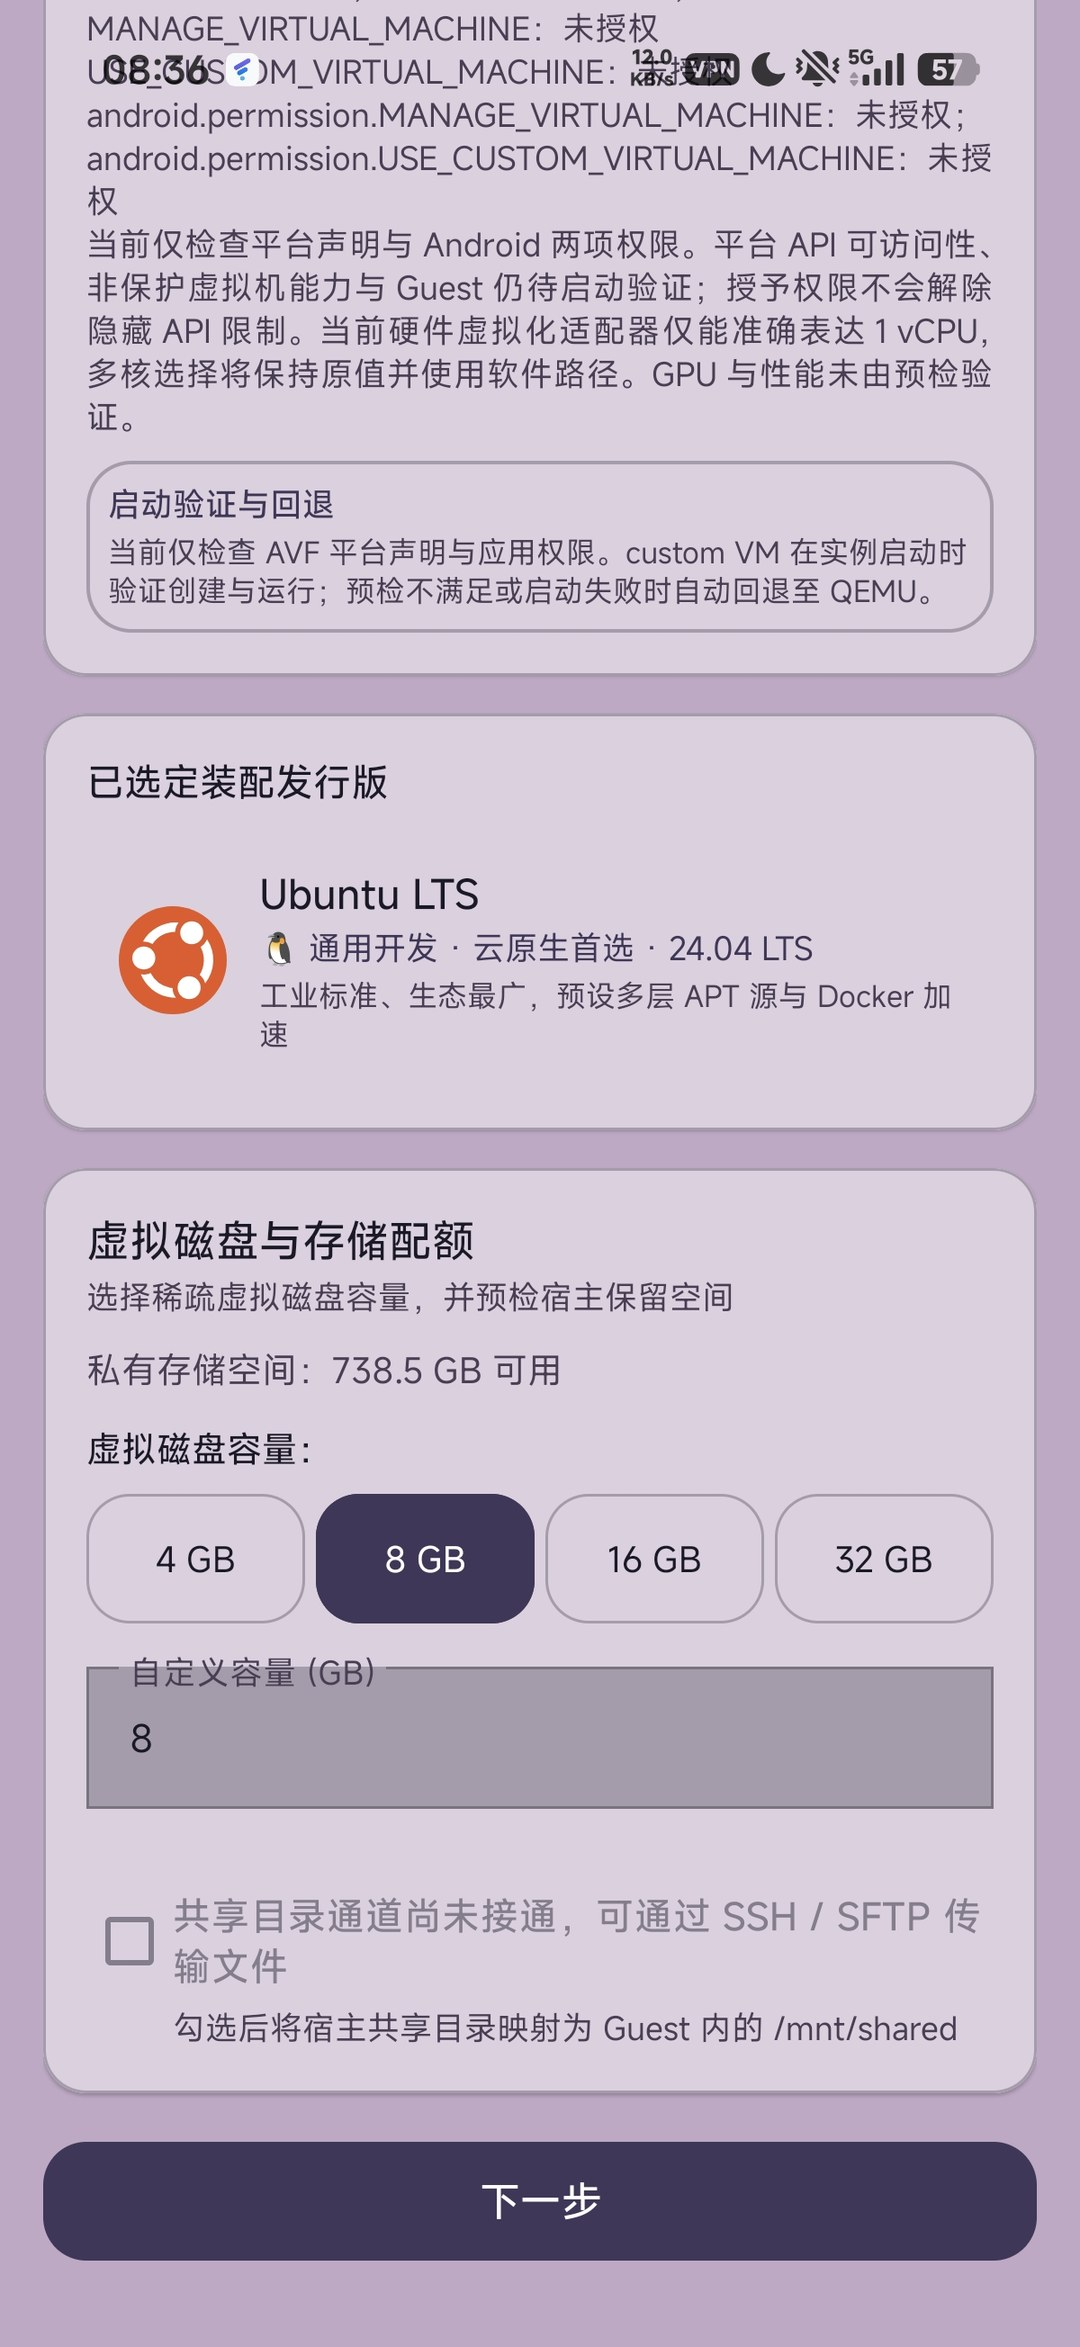
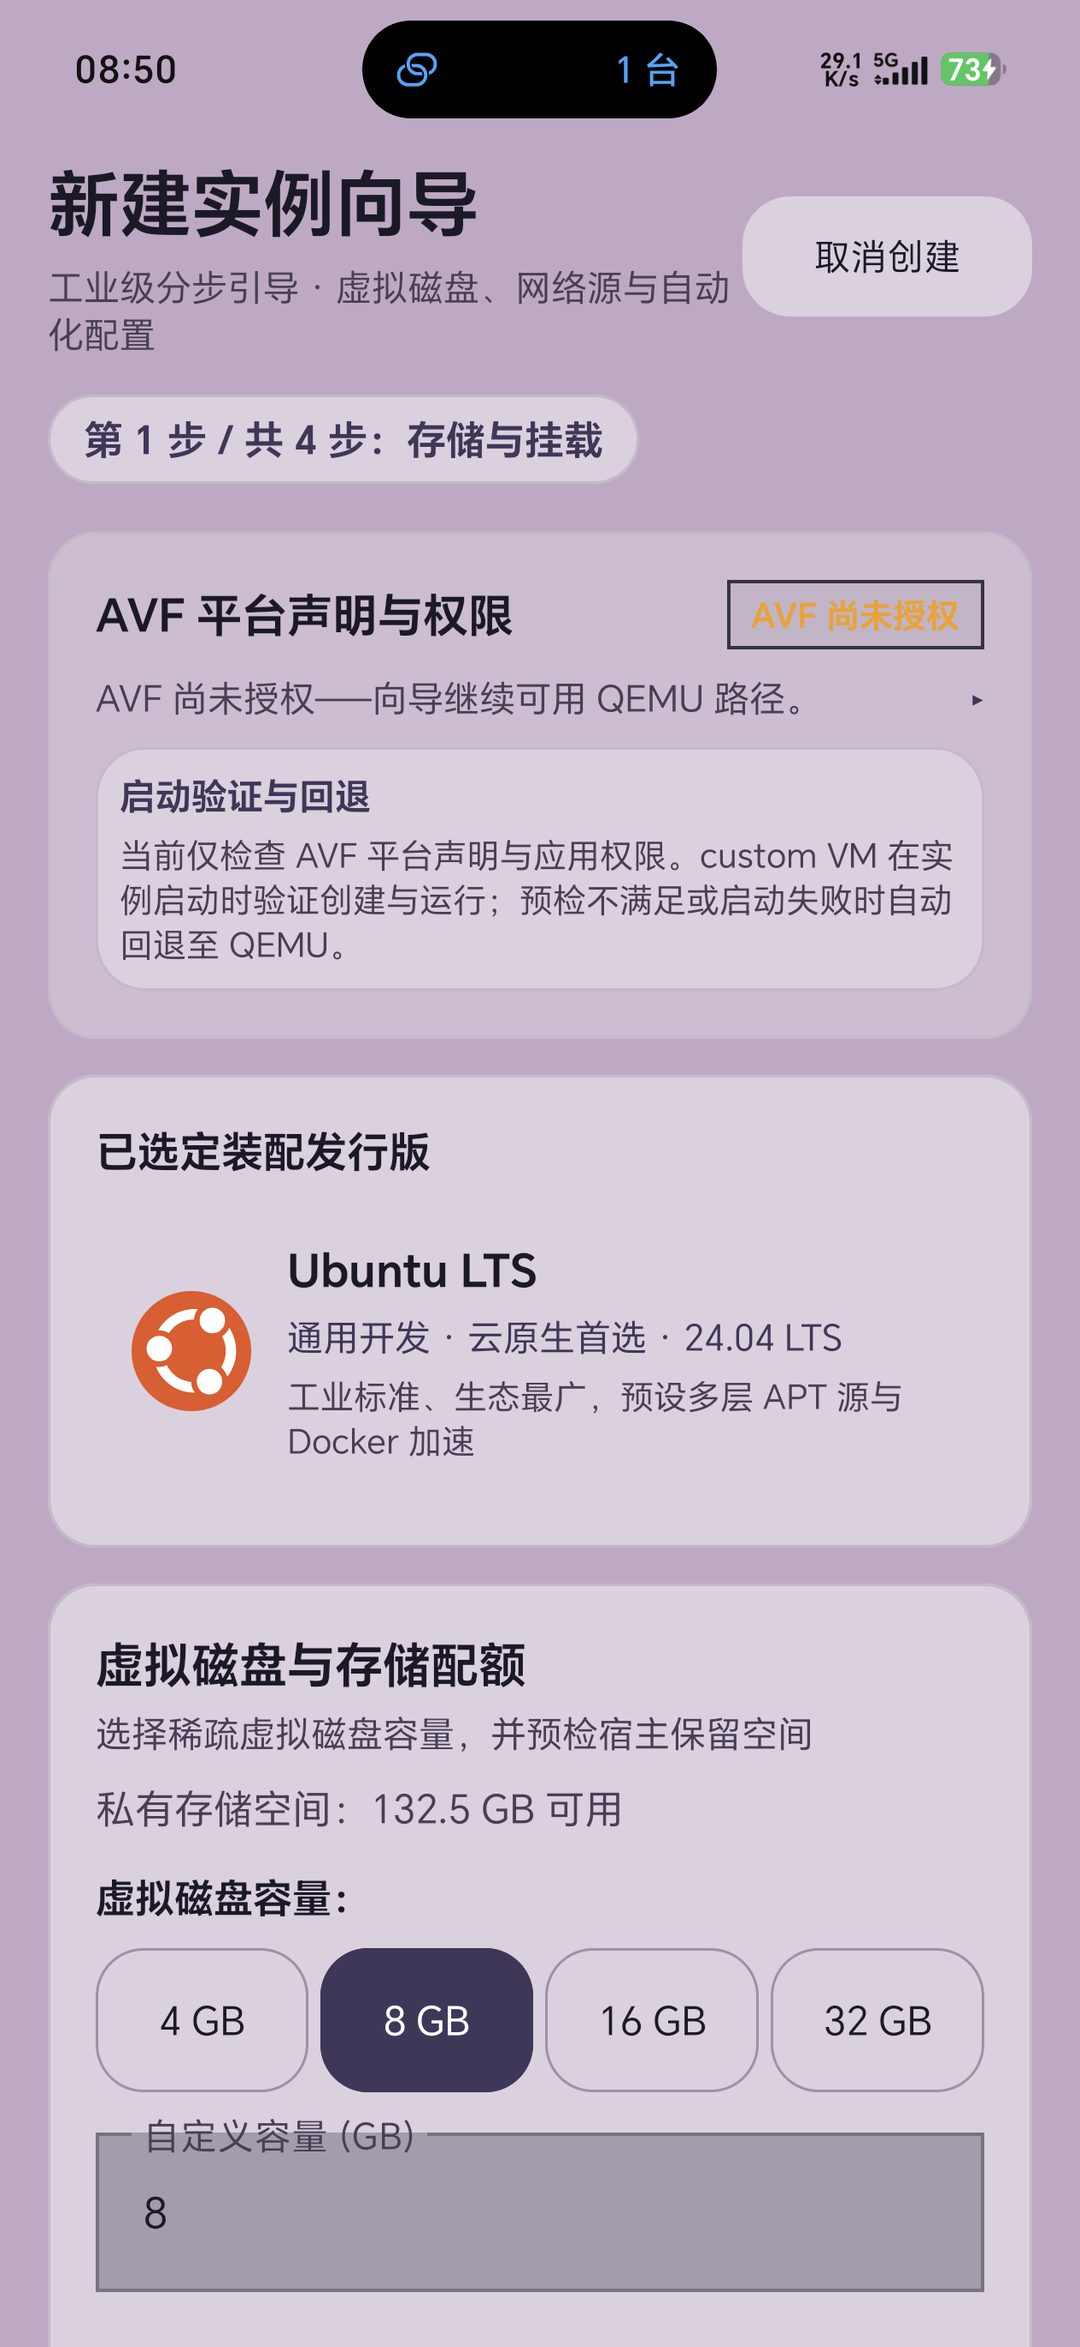
chore(release): 0.6.3 / 603 —— 优化与加固批次（启动深模块/复位根因/向导防抖），README UML 现状与截图修正

diff --git a/README.en.md b/README.en.md
@@ -21,7 +21,7 @@
 
 ## Screenshots
 
-Captured on a real device (SM8850 / Android 16) with the default "Mascot · Lavender" theme.
+Captured on real devices (Android 16 / 17) with the default "Mascot · Lavender" theme.
 
 | ![Workbench](docs/assets/screenshots/dashboard.jpg) | ![Distro catalog](docs/assets/screenshots/distros.jpg) | ![Resource quota](docs/assets/screenshots/wizard-hardware.jpg) |
 | :---: | :---: | :---: |
@@ -70,7 +70,39 @@ Captured on a real device (SM8850 / Android 16) with the default "Mascot · Lave
 | **QEMU** | translated execution (TCG), full kernel | **Available** — the backbone of everything above |
 | **proot / bare** | native host instructions + `ptrace` syscall rewriting, no guest kernel | **Conditional** — 28-domain QA channel only |
 | **pVM** | Microdroid on an EL2 hardware vCPU (protected) | **Conditional** — requires the device to register `virtualizationservice` (payload shipped by the extension package) |
-| **UML** | a real kernel as an ordinary process | **Research line** — compile offload measured 2.04× slower than native; pivoted to long-running / container work |
+| **UML** | a real kernel as an ordinary process | **Research line · zero-device phase complete** — fast profile boots on a real device (all PASS); productization pending ACR decision (see "UML research status" below) |
+
+### UML research status (2026-11-11)
+
+The UML lane completed its six zero-device work packages (U0 boot timeline /
+U1 fast-boot profile / U2 pre-baked rootfs / U3 seccomp matrix / U4 warm-start
+evaluation / U6 multi-instance benchmark) and passed ARM64 boot verification on a
+real device (Android 16, 4 KB host pages):
+
+- **Boot performance**: the fast profile (minimal kernel + built-in initramfs)
+  reaches first command in 330 ms UP / 410 ms SMP-4 (guest uptime, n≥5, all
+  `exit 0`); the Alpine 3.22 pre-baked rootfs reaches `READY` in ~350 ms over
+  both hostfs and ext4.
+- **App-domain compatibility**: `seccomp=on` lands on the real SECCOMP fast path
+  inside the targetSdk-36 domain (zero SIGSYS across the boot matrix); kernel
+  ELF is 16 KB aligned.
+- **Multi-instance & long-running**: two concurrent instances coexist
+  (~18 MB marginal RSS each); 60 minutes of foreground-service residency with
+  zero freeze and zero kernel-RSS drift; kill/restart recovers.
+- **Deterministic builds**: kernel / rootfs / initramfs artifacts reproduce
+  byte-identically for a pinned input set; all inputs are sha256-pinned.
+- **Warm-start verdict**: checkpoint/restore and hibernation are NO-GO; the
+  pre-warmed pool is CONDITIONAL GO (~22 MB resident per instance).
+- **Not yet verified**: the fast profile only promises a T3 shell (no systemd /
+  network / package manager — productization follows the U2 pre-baked rootfs
+  path); 16 KB hosts, systemd, the full 12-case seccomp matrix and multi-device
+  samples remain untested.
+
+Next step is the ACR decision; after that come the payload pipeline and
+provisioning integration (the in-product UML lane stays at zero width by
+default until then). Details: the
+[zero-device direction spec](docs/research/2026-11-10-proot-vs-uml-zero-device-direction.zh-CN.md)
+and the [ARM64 device-window report](docs/research/2026-11-11-uml-arm64-device-window-wave2.zh-CN.md).
 
 Every figure and status label traces to
 [the four-lane decision material (ACR draft)](docs/research/ACR-draft-four-lanes-20261029.md);
@@ -91,9 +123,10 @@ anything the repository cannot measure reads **unverified** instead of an estima
 2. **Guest provisioning fix**: the guest kernel lacks `CONFIG_SECURITY_LANDLOCK`, which
    stops pacman 7's download sandbox — the single root cause of `package-install`
    failures (network verified healthy). Kernel config or a pacconf downgrade, pick one.
-3. **UML research line**: 30-minute stability, dynamic linking, Docker. The compile role
-   is measured out (940 ms vs 460 ms native on the 2,000-function fixture, 2.04×); only
-   long-running user space / containers remain in scope.
+3. **UML productization** (after the ACR decision): payload pipeline and provisioning
+   integration for the fast profile / pre-baked rootfs, 16 KB host and multi-device
+   matrix, full profile (systemd / networking). Warm-start follows the pre-warmed pool
+   route (checkpoint/restore measured NO-GO).
 4. **16 KB pages on a real device**: ELF / APK alignment passes the gate; execution is
    untested.
 5. **AVF custom kernel assessment**: protected devices are closed by the chain of trust
@@ -161,8 +194,9 @@ cd Orchestella-Studio
   files under `nativeLibraryDir`.
 - **Real AVF guest success samples: 0**: the current test device declares the AVF feature
   but never registered `virtualizationservice`.
-- **UML is research only**: everything beyond single-file `-c` compiles (linking /
-  systemd / Docker / SMP) is unverified.
+- **UML is not wired into the product**: the fast profile is verified booting on a real
+  device (see "UML research status"), but the provisioning chain is not integrated;
+  the full profile (systemd / networking / Docker / SMP) is unverified.
 - **16 KB pages**: real-device execution untested.
 - **Signing**: no key in the repository; the 0.6.0 certificate counts once the Release
   page records its fingerprint.

diff --git a/README.md b/README.md
@@ -21,7 +21,7 @@
 
 ## 界面预览
 
-截图取自真机（SM8850 / Android 16），默认主题为「看板娘 · 淡紫工控」。
+截图取自真机（Android 16 / 17 设备），默认主题为「看板娘 · 淡紫工控」。
 
 | ![工作台](docs/assets/screenshots/dashboard.jpg) | ![发行版目录](docs/assets/screenshots/distros.jpg) | ![硬件配额](docs/assets/screenshots/wizard-hardware.jpg) |
 | :---: | :---: | :---: |
@@ -61,11 +61,38 @@
 | **QEMU** | 软件翻译执行（TCG），完整内核 | **可用** — 上述功能的主体 |
 | **proot / bare** | 宿主原生指令 + `ptrace` 系统调用改写，无 guest 内核 | **条件可用** — 仅 28 域 QA 通道 |
 | **pVM** | Microdroid 跑在 EL2 硬件 vCPU（保护型） | **条件可用** — 依赖设备注册 `virtualizationservice`（扩展包承载 payload） |
-| **UML** | 真实内核以普通进程运行 | **研究线** — 编译角色实测劣于原生 2.04×，转向长驻 / 容器方向 |
+| **UML** | 真实内核以普通进程运行 | **研究线 · 零设备阶段完成** — fast profile 真机启动全 PASS，待 ACR 决策后产品化（详见下文「UML 研究线现状」） |
 
 所有性能数字与状态标注的判定依据见
 [四车道决策材料（ACR 草案）](docs/research/ACR-draft-four-lanes-20261029.md)；
 仓库里取不到数的一律写「未验证」，不做估算。
+
+### UML 研究线现状（2026-11-11）
+
+UML（User Mode Linux）车道在 2026-11-07 起的零设备开发线上完成了六个工作包
+（U0 启动时间线 / U1 fast-boot profile / U2 预烘焙 rootfs / U3 seccomp 兼容矩阵 /
+U4 warm-start 评估 / U6 多实例基准），并已在真机（Android 16，4KB 宿主页）完成
+ARM64 启动验证：
+
+- **启动性能**：fast profile（最小内核 + 内置 initramfs）单核 330 ms / SMP 4 核
+  410 ms 到达 first command（guest uptime 口径，n≥5，全程 `exit 0`）；
+  Alpine 3.22 预烘焙 rootfs 经 hostfs 与 ext4 双通道均为 350 ms 级到 `READY`。
+- **App 域兼容**：36 域内 `seccomp=on` 落真 SECCOMP 快路径（非 ptrace 回退），
+  启动矩阵全程零 SIGSYS；内核 ELF 按 16 KB 对齐构建。
+- **多实例与长驻**：2 实例并存（SECCOMP 互不干扰，边际 RSS ≈ 18 MB/实例）；
+  前台服务 + wake lock 长驻 60 分钟冻结计数为 0、内核 RSS 零漂移，kill 后恢复正常。
+- **构建确定性**：内核 / rootfs / initramfs 产物在 pin 一致时逐字节复现，
+  全部输入 sha256 pin 入 manifest。
+- **warm-start 判词**：checkpoint/restore 与 hibernation 均 NO-GO（上游无机制 +
+  CRIU 不支持 UML），预热点池为 CONDITIONAL GO（每实例常驻成本 ≈ 22 MB）。
+- **尚未验证**（诚实边界）：fast profile 只承诺 T3 shell——无 systemd / 网络 /
+  包管理器（产品化走 U2 预烘焙 rootfs 路径）；16 KB 宿主、systemd、seccomp 全量
+  12-case 能力矩阵、多设备样本未测。
+
+下一步是 ACR 决策：通过后进入 payload 管线与产品装配链集成（当前产品内 UML 车道
+仍为 0 宽度默认关闭），再评估受控内测。研究明细见
+[零设备方向 spec](docs/research/2026-11-10-proot-vs-uml-zero-device-direction.zh-CN.md)
+与 [ARM64 设备窗报告](docs/research/2026-11-11-uml-arm64-device-window-wave2.zh-CN.md)。
 
 ### 双包形态（0.6.0 起）
 
@@ -80,8 +107,9 @@
 2. **发行版 guest 装配修复**：guest 内核缺 `CONFIG_SECURITY_LANDLOCK` 导致 pacman 7
    下载沙箱起不来（装配 `package-install` 失败的唯一根因，网络实测健康）——内核配置
    或 pacconf 降级方案二选一。
-3. **UML 研究线**：30 分钟长驻稳定性、动态链接、Docker；编译卸载角色已实测否定
-   （2,000 函数夹具 940 ms vs 原生 460 ms，2.04×），仅保留长驻用户态 / 容器价值。
+3. **UML 产品化**（ACR 决策后）：fast profile / 预烘焙 rootfs 的 payload 管线与
+   装配链接入、16 KB 宿主与多设备矩阵、full profile（systemd / 网络）立项；
+   warm-start 走预热点池路线（checkpoint/restore 已判 NO-GO）。
 4. **16 KB 页真机执行**：ELF / APK 对齐已过门禁，真机运行未测。
 5. **AVF 自定义内核评估**：protected 域被信任链封死（pvmfw 只收 Google/OEM 签名镜像），
    仅在 non-protected 设备上有意义——只评估，不承诺实现。
@@ -140,7 +168,8 @@ cd Orchestella-Studio
 - **proot 车道只在 28 域 QA 包**：36 域只允许执行 `nativeLibraryDir` 下的 `.so`。
 - **真实 AVF guest 成功样本为 0**：当前测试设备声明 AVF 能力但未注册
   `virtualizationservice`。
-- **UML 仅研究**：`-c` 单文件编译之外（链接 / systemd / Docker / SMP）全部未验证。
+- **UML 未接入产品**：fast profile 已真机验证启动（见「UML 研究线现状」），
+  但产品装配链尚未集成；full profile（systemd / 网络 / Docker / SMP）未验证。
 - **16 KB 页**：真机执行未测。
 - **签名**：仓库不含密钥；0.6.0 的发布证书指纹在 Release 页记录后才算数。
 

diff --git a/CHANGELOG.md b/CHANGELOG.md
@@ -8,7 +8,39 @@
 
 ## [Unreleased]
 
-0.6.2 之后的 150+ 个提交（含 2026-11-09→10 六 lane 大优化与 T1 `InstanceLaunchCoordinator` 深模块）尚未整理为用户可感知条目；下一版本号待定。明细见 [大优化轮总报告](docs/reports/grand-optimization-20261109.zh-CN.md)。
+- UML 研究线状态与 Arm64 设备窗报告已并入文档（详见 README「UML 研究线现状」）；产品装配链集成待 ACR 决策。
+
+## [0.6.3] - 2026-11-11
+
+本版本是 0.6.2 之后的集中优化与加固（约 620 个提交），无新增 shell 能力；
+界面观感变化（主题 / 图标 / 动效）不在本节展开，直接升级即可感知。
+
+### 性能
+
+- **冷启动路径**：首帧前 SHA-256 校验与通知权限申请移出首帧；启动链路主线程磁盘 IO
+  审计清零；`reportFullyDrawn` 接线；实例启动编排抽取为 `InstanceLaunchCoordinator`
+  深模块（原 254 行编排收拢为固定 outcome）。
+- **向导输入**：自定义磁盘容量的每键击 `StatFs` + 实例目录扫描改为 300 ms 防抖 +
+  后台执行，等待期间禁用下一步以防绕过磁盘预检。
+- **执行车道**：三车道宽度账本（`FabricOrchestrator`）落地，UML 面默认 0 宽度；
+  PVM 编译服务线完成真实 distcc 3.4 端到端闭环。
+
+### 修复
+
+- **复位无响应（根因）**：中断 / 崩溃实例的复位此前是 no-op（只处理 RUNNING），
+  现按状态分流——复位后可正常删除（解除 10 月底以来「复位后删除仍禁用」的根因）。
+- **创建向导 BACK**：创建进行中按返回键现在弹确认框，空闲时保持直退。
+- **磁盘预检**：装配前磁盘余量计入已有实例占用（容量 + 占用 > 可用即拒绝），
+  错误文案走统一错误码单源。
+- **端口转发**：空规则的底部表单外层空态容器与提示同现同隐，消除塌缩描边残影。
+- **更新检查**：首次检查失败按 15 分钟重试；升级圆点在浅色主题下加描边。
+
+### 质量与工程
+
+- 控制通道与保活执行序抽为具名深模块（`ControlChannelLifecycle` /
+  `UmlKeepAliveSession`），测试内反射全部清除，锁序成为接口契约。
+- `:app` 测试 **1266 → 1431**（+165 契约用例），lint 0 error；空 catch 生产代码归零。
+- 更新徽标 / 无障碍语义补齐（contentDescription + announceForAccessibility）。
 
 ## [0.6.2] - 2026-10-30
 
